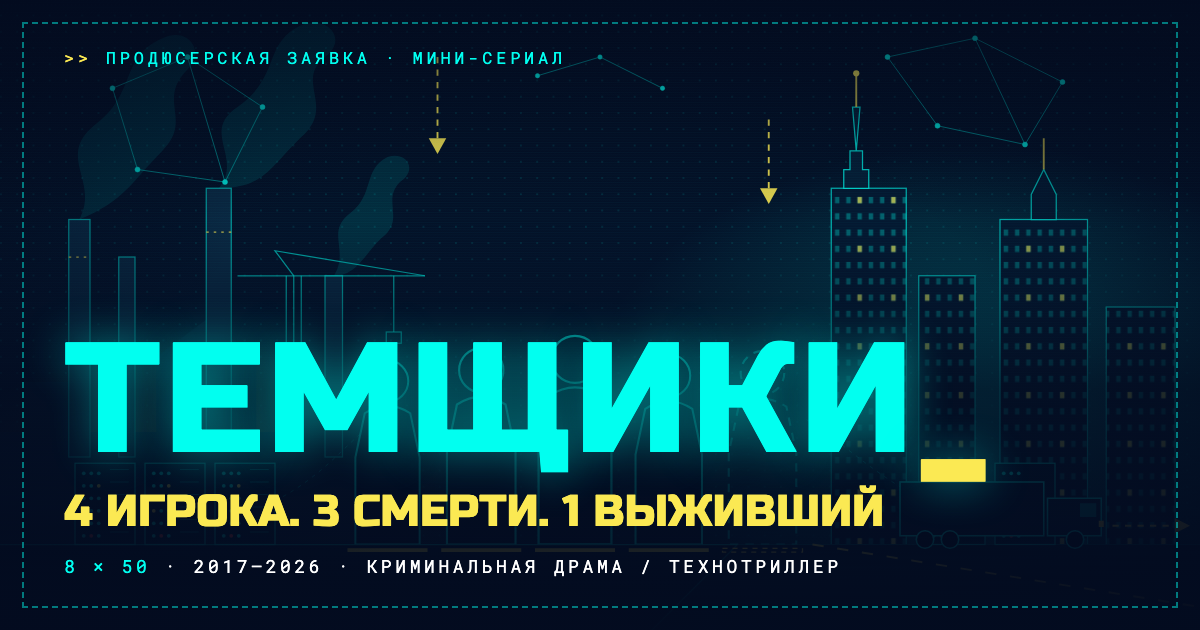
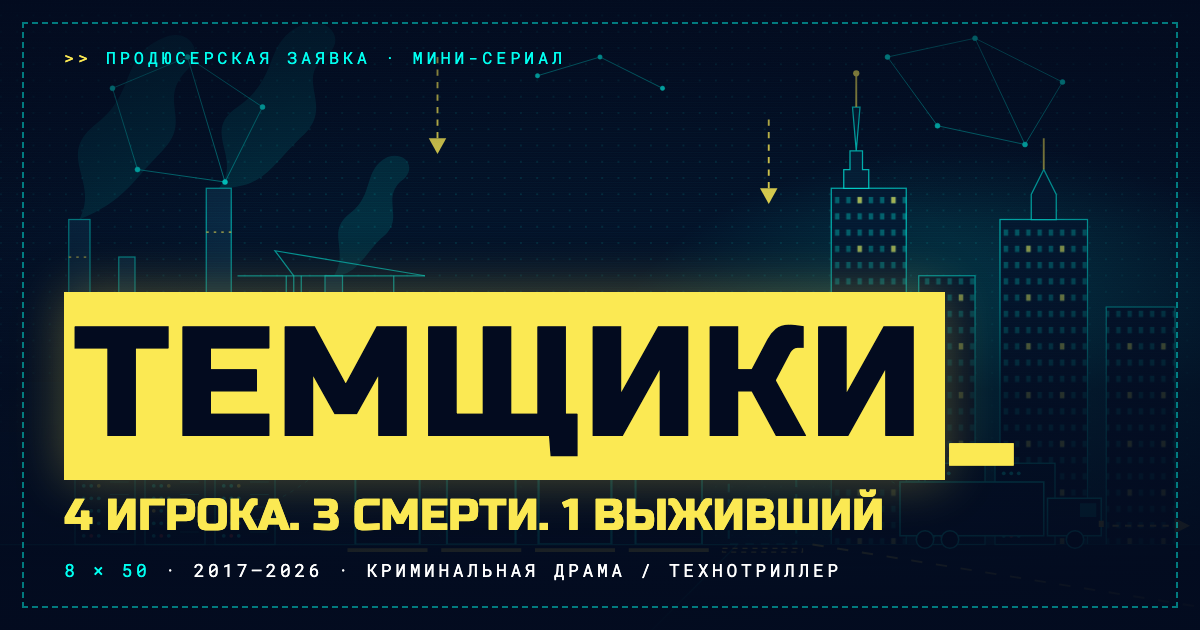
feat: set hero title on a yellow block
Claude-Session: https://claude.ai/code/session_01XUbrkqwq6WtAzixCvNexGY

diff --git a/site/app/globals.css b/site/app/globals.css
@@ -361,9 +361,18 @@ p {
 .hero__title {
   font-size: clamp(2.75rem, 11vw, 9rem);
   letter-spacing: 0.02em;
-  color: var(--accent);
+  color: var(--accent-strong);
   margin: 0;
-  text-shadow: 0 0 40px rgba(1, 255, 240, 0.35);
+  width: fit-content;
+}
+.hero__title-mark {
+  display: inline;
+  background: var(--accent-strong);
+  color: var(--over-accent);
+  padding: 0 0.12em 0 0.06em;
+  -webkit-box-decoration-break: clone;
+  box-decoration-break: clone;
+  box-shadow: 0 0 48px rgba(251, 233, 83, 0.28);
 }
 .cursor::after {
   content: '_';

diff --git a/site/components/hero.tsx b/site/components/hero.tsx
@@ -18,7 +18,7 @@ export function Hero({ meta }: { meta: SeriesMeta }) {
           Продюсерская заявка · мини-сериал · рабочее название
         </p>
         <h1 id="hero-title" className="display hero__title cursor">
-          {meta.title}
+          <span className="hero__title-mark">{meta.title}</span>
         </h1>
         <p className="hero__formula">{meta.formula}</p>
         <p className="hero__logline">{meta.logline}</p>
